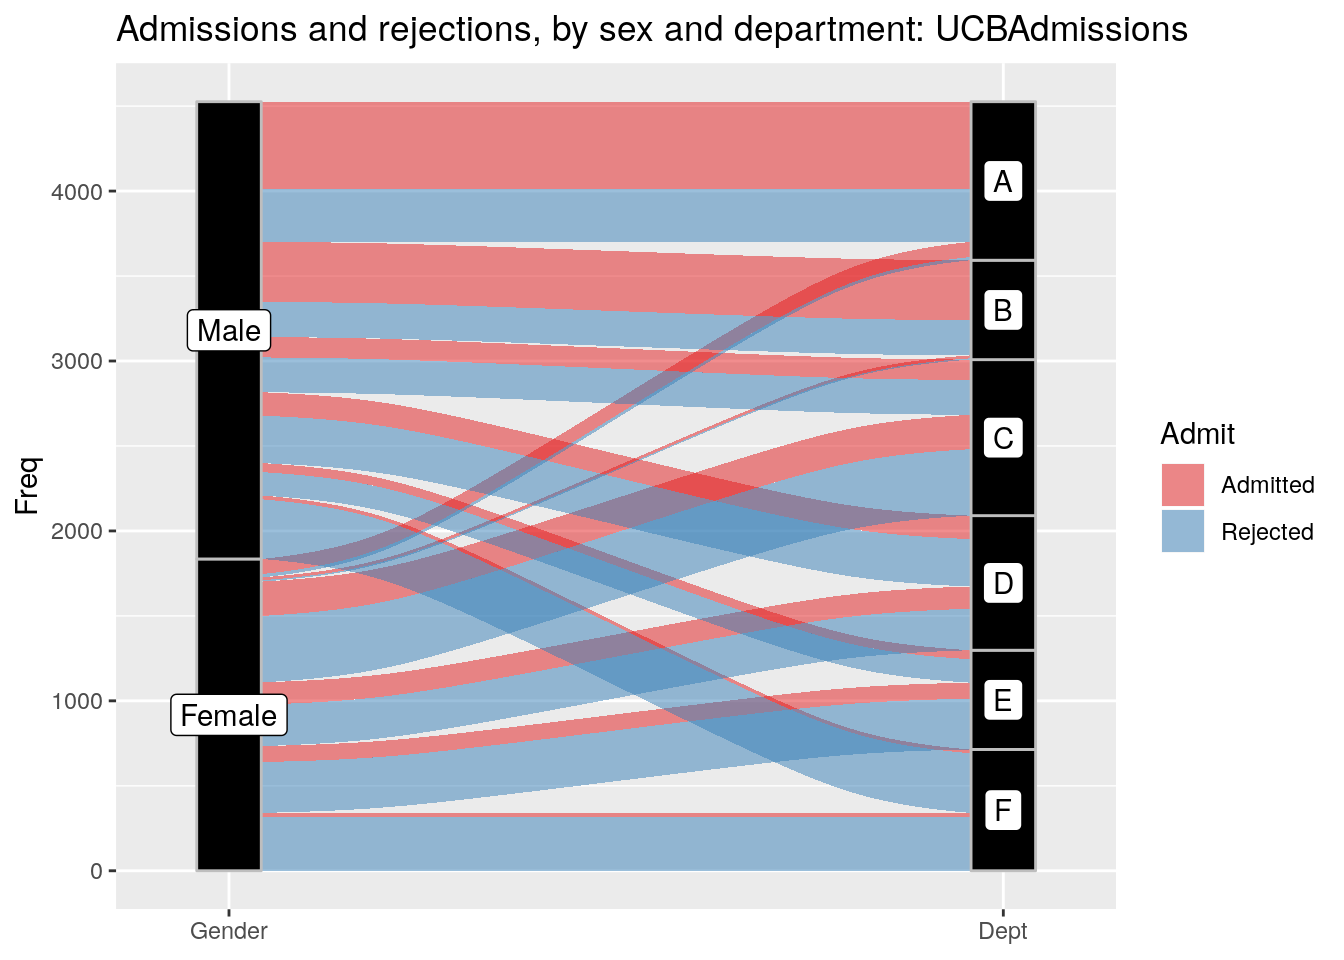
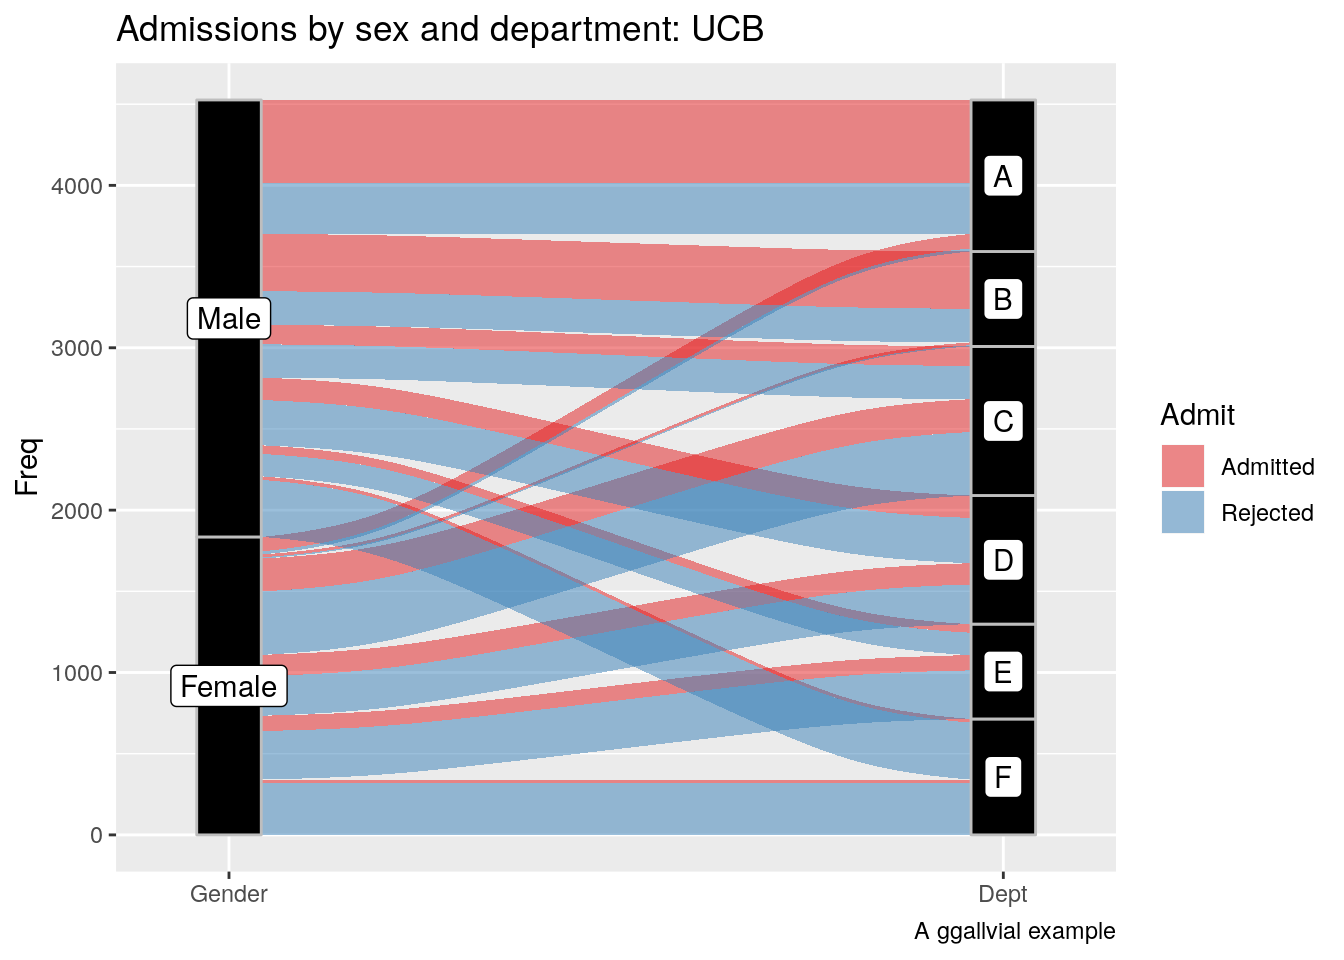
Presenation?

diff --git a/public/post/building-a-blogdown/index.html b/public/post/building-a-blogdown/index.html
@@ -447,23 +447,15 @@ blogdown::install_hugo()  Motivation Credit where credit is due; Alison Hill mot
 <p>Something pretty simple.</p>
 <pre class="r"><code>data(&quot;UCBAdmissions&quot;)
 # install.packages(&quot;ggalluvial&quot;)
-library(tidyverse); library(ggalluvial)</code></pre>
-<pre><code>## ── Attaching packages ──────────────────────────────────────────────── tidyverse 1.2.1 ──</code></pre>
-<pre><code>## ✔ ggplot2 3.2.1     ✔ purrr   0.3.3
-## ✔ tibble  2.1.3     ✔ dplyr   0.8.3
-## ✔ tidyr   1.0.0     ✔ stringr 1.4.0
-## ✔ readr   1.3.1     ✔ forcats 0.4.0</code></pre>
-<pre><code>## ── Conflicts ─────────────────────────────────────────────────── tidyverse_conflicts() ──
-## ✖ dplyr::filter() masks stats::filter()
-## ✖ dplyr::lag()    masks stats::lag()</code></pre>
-<pre class="r"><code>ggplot(as.data.frame(UCBAdmissions),
+library(tidyverse); library(ggalluvial)
+ggplot(as.data.frame(UCBAdmissions), # Flatten the table
        aes(y = Freq, axis1 = Gender, axis2 = Dept)) +
   geom_alluvium(aes(fill = Admit), width = 1/12) +
   geom_stratum(width = 1/12, fill = &quot;black&quot;, color = &quot;grey&quot;) +
   geom_label(stat = &quot;stratum&quot;, label.strata = TRUE) +
   scale_x_discrete(limits = c(&quot;Gender&quot;, &quot;Dept&quot;), expand = c(.05, .05)) +
   scale_fill_brewer(type = &quot;qual&quot;, palette = &quot;Set1&quot;) +
-  ggtitle(&quot;Admissions and rejections, by sex and department: UCBAdmissions&quot;)</code></pre>
+  ggtitle(&quot;Admissions by sex and department: UCB&quot;) + labs(caption = &quot;A ggallvial example&quot;)</code></pre>
 <p><img src="/post/2019-11-15-building-a-blogdown_files/figure-html/unnamed-chunk-1-1.png" width="672" /></p>
 <p>Now we are going to undertake our first interaction with GitHub from RStudio.</p>
 </div>

diff --git a/content/post/2019-11-15-building-a-blogdown.html b/content/post/2019-11-15-building-a-blogdown.html
@@ -91,23 +91,15 @@ header:
 <p>Something pretty simple.</p>
 <pre class="r"><code>data(&quot;UCBAdmissions&quot;)
 # install.packages(&quot;ggalluvial&quot;)
-library(tidyverse); library(ggalluvial)</code></pre>
-<pre><code>## ── Attaching packages ──────────────────────────────────────────────── tidyverse 1.2.1 ──</code></pre>
-<pre><code>## ✔ ggplot2 3.2.1     ✔ purrr   0.3.3
-## ✔ tibble  2.1.3     ✔ dplyr   0.8.3
-## ✔ tidyr   1.0.0     ✔ stringr 1.4.0
-## ✔ readr   1.3.1     ✔ forcats 0.4.0</code></pre>
-<pre><code>## ── Conflicts ─────────────────────────────────────────────────── tidyverse_conflicts() ──
-## ✖ dplyr::filter() masks stats::filter()
-## ✖ dplyr::lag()    masks stats::lag()</code></pre>
-<pre class="r"><code>ggplot(as.data.frame(UCBAdmissions),
+library(tidyverse); library(ggalluvial)
+ggplot(as.data.frame(UCBAdmissions), # Flatten the table
        aes(y = Freq, axis1 = Gender, axis2 = Dept)) +
   geom_alluvium(aes(fill = Admit), width = 1/12) +
   geom_stratum(width = 1/12, fill = &quot;black&quot;, color = &quot;grey&quot;) +
   geom_label(stat = &quot;stratum&quot;, label.strata = TRUE) +
   scale_x_discrete(limits = c(&quot;Gender&quot;, &quot;Dept&quot;), expand = c(.05, .05)) +
   scale_fill_brewer(type = &quot;qual&quot;, palette = &quot;Set1&quot;) +
-  ggtitle(&quot;Admissions and rejections, by sex and department: UCBAdmissions&quot;)</code></pre>
+  ggtitle(&quot;Admissions by sex and department: UCB&quot;) + labs(caption = &quot;A ggallvial example&quot;)</code></pre>
 <p><img src="/post/2019-11-15-building-a-blogdown_files/figure-html/unnamed-chunk-1-1.png" width="672" /></p>
 <p>Now we are going to undertake our first interaction with GitHub from RStudio.</p>
 </div>
